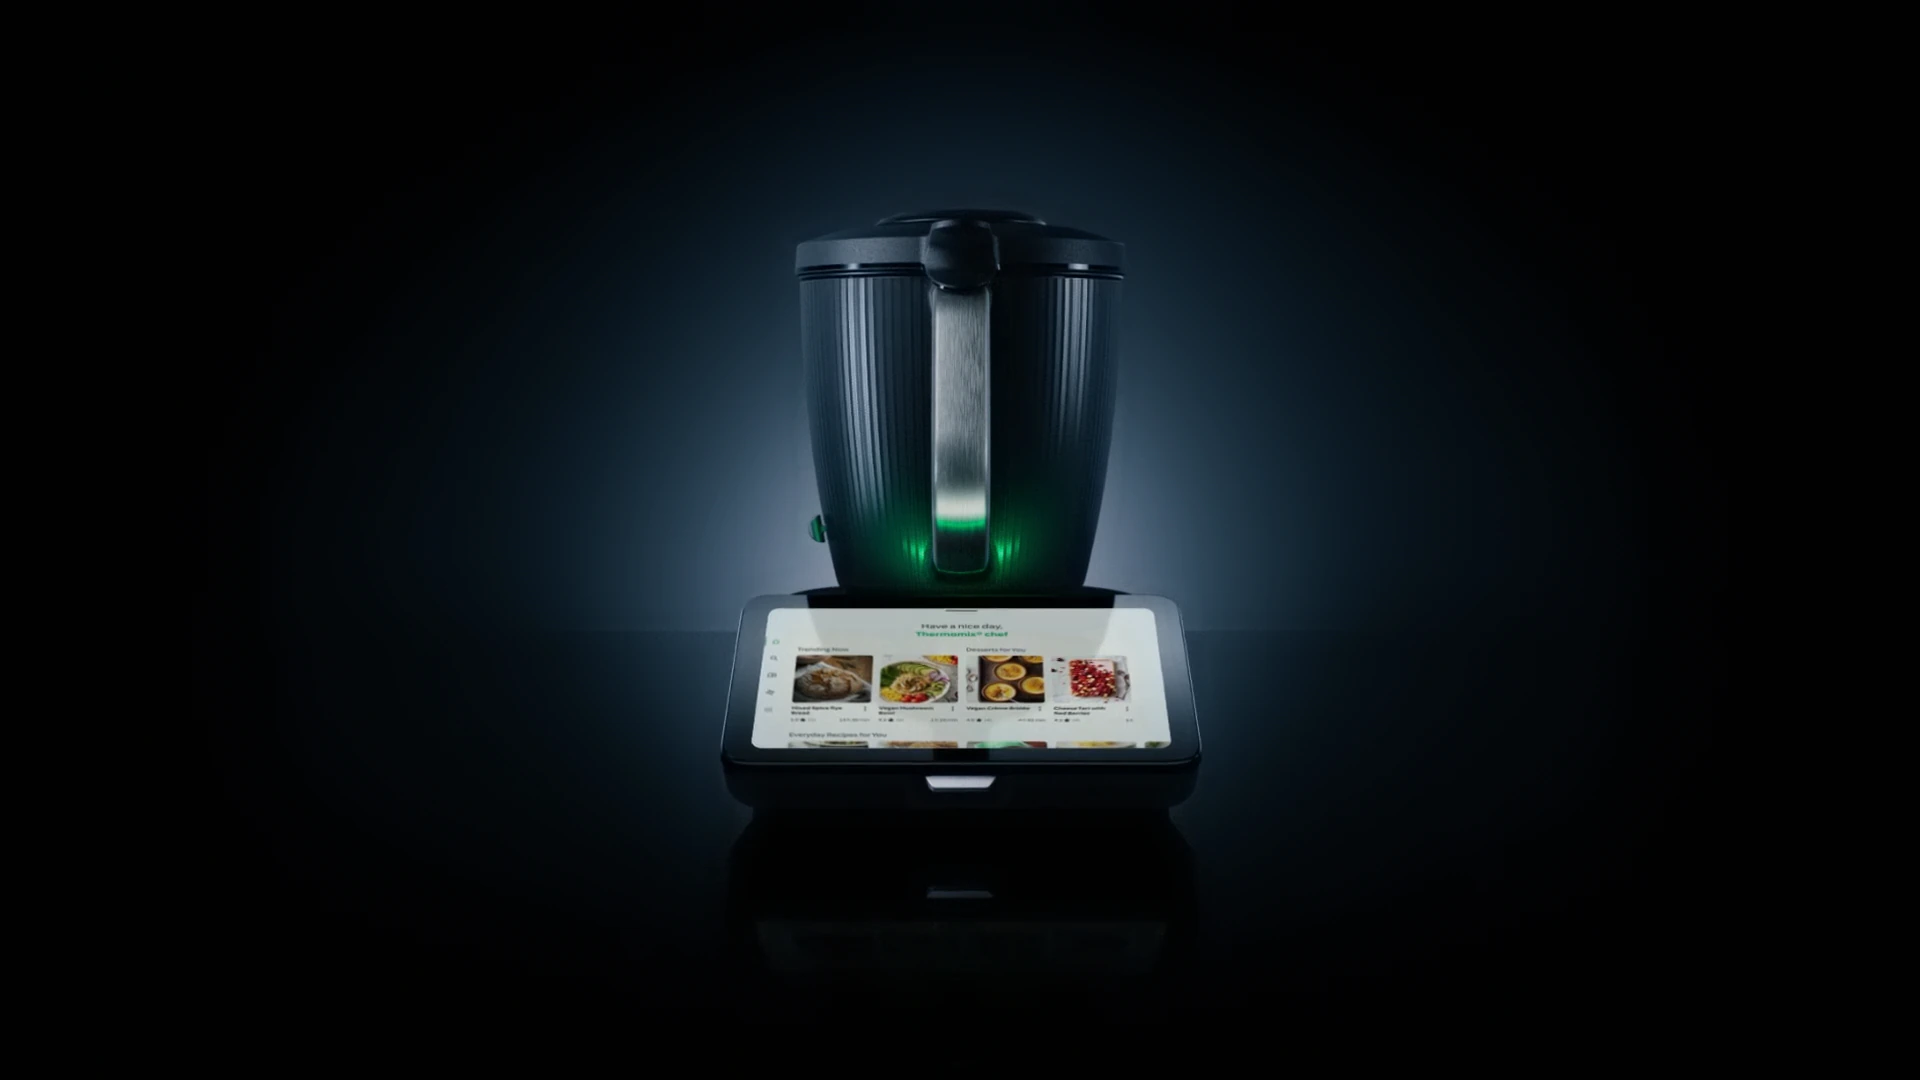
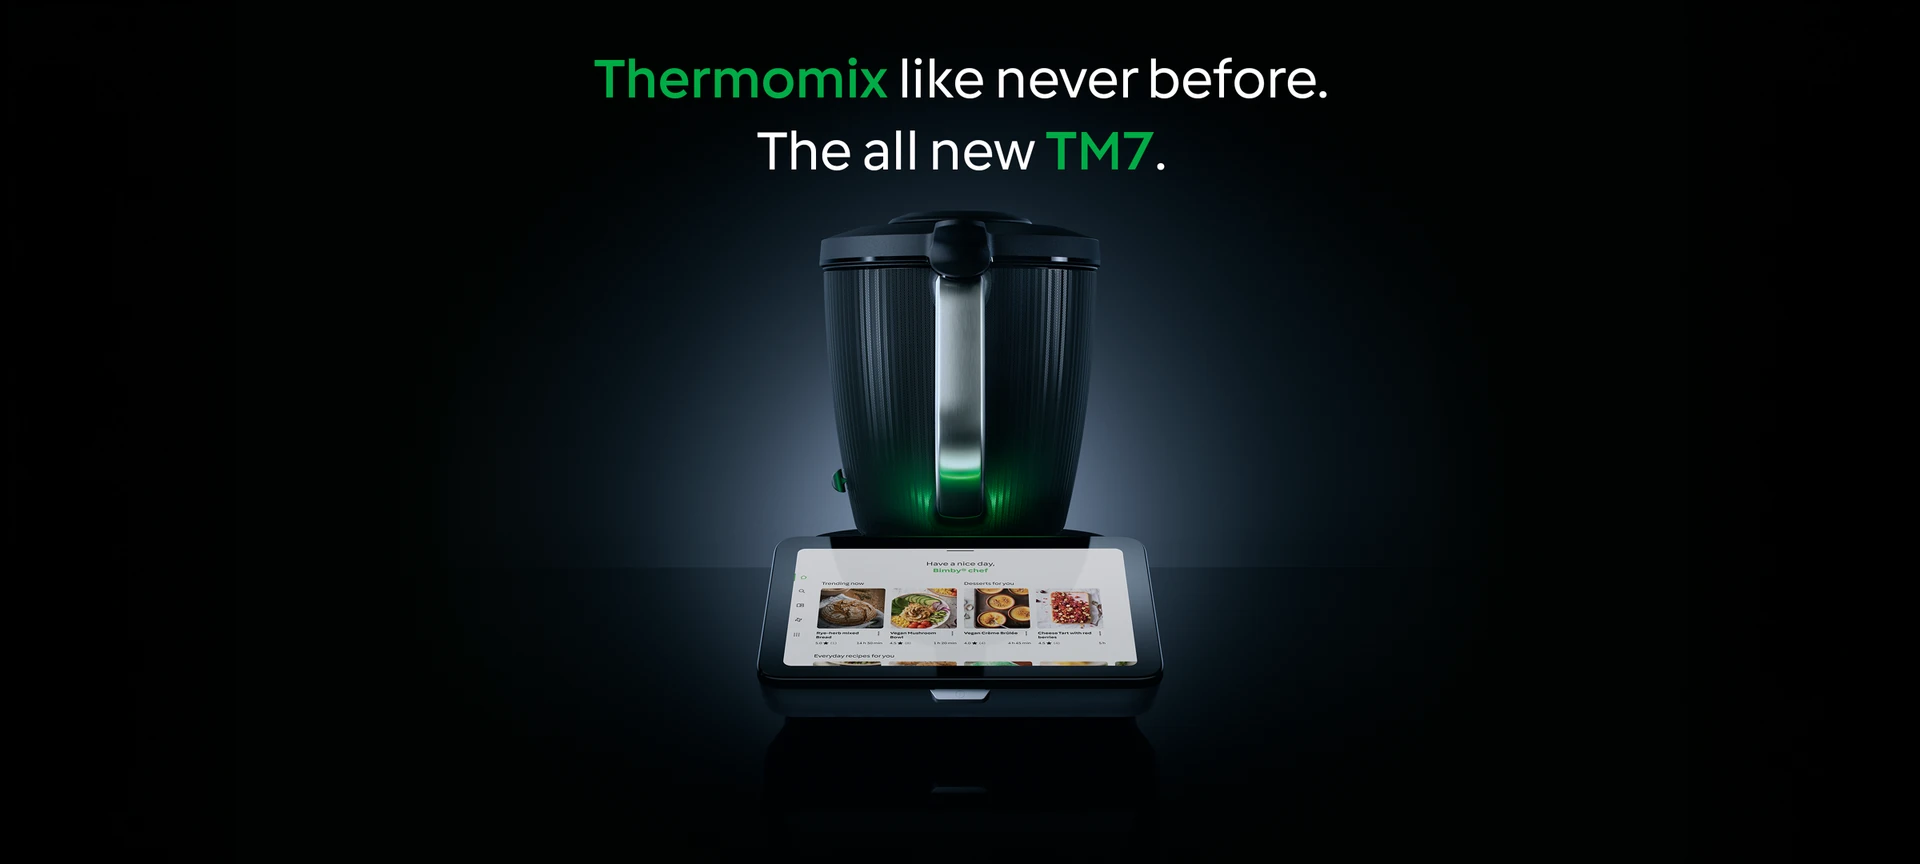
Use official Vorwerk TM7 key art (Scene7 source, 1920w) for the machine band

Changed region(s): [[0.2812, 0.1562, 0.6875, 0.8438], [0.3125, 0.0625, 0.6875, 0.125]]

diff --git a/site/index.html b/site/index.html
@@ -143,15 +143,8 @@ section{padding:clamp(72px,10vw,140px) 0;position:relative}
   font-size:11px;letter-spacing:.26em;text-transform:uppercase;color:var(--dim)}
 
 /* key art band */
-.keyart{margin-top:56px;border-radius:20px;overflow:hidden;border:1px solid var(--line);position:relative;background:#04070a}
-.keyart img{width:100%;height:clamp(340px,46vw,600px);object-fit:cover;object-position:50% 62%}
-.keyart::after{content:"";position:absolute;inset:0;pointer-events:none;
-  background:radial-gradient(ellipse 62% 58% at 50% 58%,transparent 42%,rgba(4,7,10,.45) 74%,rgba(4,7,10,.92) 100%)}
-.keyart .ktx{z-index:2}
-.keyart .ktx{position:absolute;top:clamp(26px,4.5vw,54px);left:0;right:0;text-align:center;
-  font-weight:500;font-size:clamp(20px,2.9vw,40px);line-height:1.3;letter-spacing:.01em}
-.keyart .ktx .tg{color:#2fbd82}
-.keyart .ktx small{display:block;font-size:clamp(17px,2.3vw,32px);font-weight:400;color:var(--ink)}
+.keyart{margin-top:56px;border-radius:20px;overflow:hidden;border:1px solid var(--line);background:#04070a}
+.keyart img{width:100%;height:auto}
 
 /* film */
 #film .poster{position:relative;border-radius:22px;overflow:hidden;border:1px solid var(--line);cursor:pointer;display:block;width:100%;padding:0;background:none}
@@ -355,8 +348,7 @@ footer{border-top:1px solid var(--line);padding:54px 0 70px;background:#050606}
       </div>
     </div>
     <figure class="keyart rv">
-      <img src="assets/tm7-key.webp" alt="The all-new Thermomix TM7, lit green in the dark" loading="lazy">
-      <p class="ktx"><span class="tg">Thermomix</span> like never before.<small>The all new <span class="tg">TM7</span>.</small></p>
+      <img src="assets/tm7-key.webp" alt="Thermomix like never before — the all new TM7" loading="lazy">
     </figure>
   </div>
 </section>